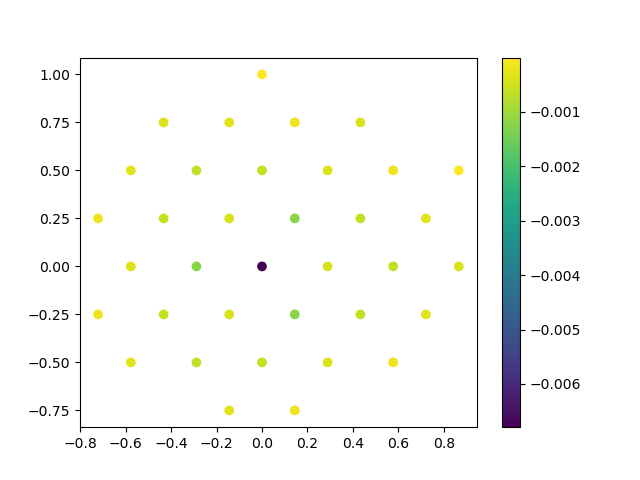
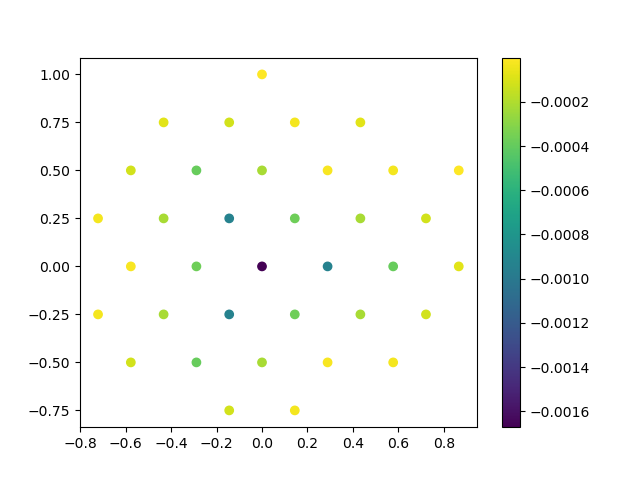
imposing antiunitary particle hole is now working

diff --git a/Mods/Dispersion.py b/Mods/Dispersion.py
@@ -519,19 +519,26 @@ class Dispersion():
             E1,wave1=self.hpl.eigens(self.KX1bz[l],self.KY1bz[l],self.nbands)
             Ene_valley_plus_a=np.append(Ene_valley_plus_a,E1)
             wave1p=self.gauge_fix( wave1)
+            self.check_C2T(wave1p)
             psi_plus_a.append(wave1p)
             
-            E1,wave1=self.hmin.eigens(-self.KX1bz[l],-self.KY1bz[l],self.nbands)
+            
+            # E1,wave1=self.hmin.eigens(-self.KX1bz[l],-self.KY1bz[l],self.nbands)
+            # Ene_valley_min_a=np.append(Ene_valley_min_a,E1)
+            # wave1m=self.gauge_fix( wave1)
+            # psi_min_a.append(wave1m)
+            
+            #with the convention that this is the eigenvalue and eigenvector at -k
+            
             Ene_valley_min_a=np.append(Ene_valley_min_a,E1)
-            wave1m=self.gauge_fix( wave1)
+            wave1m=self.impose_C2(wave1p)
+            self.check_C2T(wave1m)
             psi_min_a.append(wave1m)
             
-            # self.check_Cstar(wave1p, self.impose_Cstar(wave1p,l, self.Npoi1bz))
-            swm1=self.impose_Cstar(wave1p,l, self.Npoi1bz)
-            print(la.det(np.abs(np.conj(swm1.T)@wave1m)))
+            self.check_T(wave1p,wave1m)
+            self.check_C2(wave1p,wave1m)
+
             
-        #TODO: construct minus wavefunctions from plus wavef 
-        #test gaugefixing for this procedure
         #test symmetry for the form factors
         #start implementing the projector- understand the role of non-normal ordered
     
@@ -544,8 +551,7 @@ class Dispersion():
         psi_min=np.array(psi_min_a)
         Ene_valley_min= np.reshape(Ene_valley_min_a,[self.Npoi1bz,self.nbands])
 
-        
-        
+
 
         return [psi_plus,Ene_valley_plus,psi_min,Ene_valley_min]
     
@@ -681,37 +687,111 @@ class Dispersion():
         
         return wave1
     
-    def impose_Cstar(self, wave1,k, Npoi):
-        #antiunitary particle hole connecting different valleys
-        II=np.eye(self.Dim)
-        
-        pauli0=np.array([[1,0],[0,1]])
-        paulix=np.array([[0,1],[1,0]])
-        pauliy=np.array([[0,-1j],[1j,0]])
+    def check_C2T(self,wave1):
+
         pauliz=np.array([[1,0],[0,-1]])
         
-        op=np.kron(pauliy,np.kron(II, paulix))
-        wavem=op@wave1[ : , ::-1]
-        # if k< np.ceil(Npoi/2):
-        #     wavem=op@wave1[ : , ::-1]
-        
-        return wavem
-    
-    
-    def check_Cstar(self, wave1, wave2):
-        II=np.eye(self.Dim)
-        
-        pauli0=np.array([[1,0],[0,1]])
-        paulix=np.array([[0,1],[1,0]])
-        pauliy=np.array([[0,-1j],[1j,0]])
+
+        Sewing=np.conj(wave1.T)@self.hpl.c2zT_psi(wave1)
         pauliz=np.array([[1,0],[0,-1]])
+        if np.abs(np.mean(Sewing-pauliz))>1e-6:
+            print("c2T failed")
+            print(Sewing)
         
-        op=np.kron(pauliy,np.kron(II, paulix))
-        
-        Sewing=np.conj(wave1.T)@(op@wave2)
-        print(np.abs(Sewing))
         return None
     
+    def impose_all_Cstar(self, psi_plus):
+        
+        (Nkpoints, DimV, Nbands)=np.shape(psi_plus)
+        II=np.eye(self.Dim)
+        
+        pauli0=np.array([[1,0],[0,1]])
+        paulix=np.array([[0,1],[1,0]])
+        pauliy=np.array([[0,-1j],[1j,0]])
+        pauliz=np.array([[1,0],[0,-1]])
+        op=np.kron(pauliy,np.kron(II, paulix))
+        Wm=np.zeros(np.shape(psi_plus))+0*1j
+        Wp=np.array(psi_plus)
+        
+        TopRange=int(np.ceil(Nkpoints/2))
+        kpoints=int(Nkpoints)
+        for k in range(TopRange):
+            Wm[k,:,:]=op@(psi_plus[k,:,::-1])
+            Wm[kpoints-1-k,:,:]=(psi_plus[k,:,:])@pauliz
+        
+        for k in range(TopRange):
+            Wp[kpoints-1-k,:,:]=op@(Wm[kpoints-1-k,:,::-1])
+
+        for k in range(kpoints):
+            self.check_Cstar( Wp[k,:,:],Wm[k,:,:])
+            self.check_C2T(Wp[k,:,:])
+            self.check_C2T(Wm[k,:,:])
+
+            
+            self.check_T(Wp[k,:,:],Wm[k,:,:])
+            # self.check_C2(Wp[k,:,:],Wm[k,:,:]) # for some reason, this rep of C2 is incompatible with the rep of Cstar
+        return None
+        
+    
+    def check_Cstar(self, wave1p, wave1m):
+        II=np.eye(self.Dim)
+        
+        pauli0=np.array([[1,0],[0,1]])
+        paulix=np.array([[0,1],[1,0]])
+        pauliy=np.array([[0,-1j],[1j,0]])
+        pauliz=np.array([[1,0],[0,-1]])
+        
+        op=np.kron(pauliy,np.kron(II, paulix))
+        
+        Sewing=np.conj(wave1m.T)@(op@wave1p)
+        if np.abs(np.mean(Sewing-paulix))>1e-6:
+            print("C star failed")
+            print(Sewing)
+        return None
+    
+    def impose_T(self,wave1):
+        ihalf=int(self.nbands/2)
+        wave2=np.array(np.conj(wave1))
+        wave2[:,ihalf:]=-np.array(np.conj(wave1))[:,1]
+        return wave2
+    
+    def check_T(self,wave1p,wave1m):
+        Sewing=np.conj(wave1m.T)@np.conj(wave1p)
+        pauliz=np.array([[1,0],[0,-1]])
+        if np.abs(np.mean(Sewing-pauliz))>1e-6:
+            print("T failed")
+            print(Sewing)
+        return None
+    
+    def impose_C2(self,wave1):
+        
+        II=np.eye(self.Dim)
+        
+        pauli0=np.array([[1,0],[0,1]])
+        paulix=np.array([[0,1],[1,0]])
+        pauliy=np.array([[0,-1j],[1j,0]])
+        pauliz=np.array([[1,0],[0,-1]])
+        
+        op=np.kron(pauli0,np.kron(II, paulix))
+        
+        wave2=np.array(op@wave1)
+        return wave2
+    
+    def check_C2(self,wave1p,wave1m):
+        II=np.eye(self.Dim)
+        
+        pauli0=np.array([[1,0],[0,1]])
+        paulix=np.array([[0,1],[1,0]])
+        pauliy=np.array([[0,-1j],[1j,0]])
+        pauliz=np.array([[1,0],[0,-1]])
+        
+        op=np.kron(pauli0,np.kron(II, paulix))
+        
+        Sewing=np.conj(wave1m.T)@(op@wave1p)
+        if np.abs(np.mean(Sewing-pauli0))>1e-6:
+            print("C2 failed")
+            print(Sewing)
+        return None
     ###########DOS FOR DEBUGGING
 
     
@@ -1497,13 +1577,7 @@ class HartreeBandStruc:
         self.Ene_valley_min_dec=self.hmin.ExtendE(self.Ene_valley_min_1bz_dec , self.umkl)
 
 
-        
-
-        #TODO
-        #
-        
-
-        #refStates
+    
 
         print("im here clearly", np.shape(self.psi_plus))
         
@@ -1583,22 +1657,22 @@ def main() -> int:
     
 
     #JY params 
-    # hbvf = (3/(2*np.sqrt(3)))*2.7; # eV
-    # hvkd=hbvf*q
-    # kappa=0.75
-    # up = 0.105; # eV
-    # u = kappa*up; # eV
-    # alpha=up/hvkd
-    # alph=alpha
-
-    #Andrei params 
-    hbvf = 19.81/(8*np.pi/3); # eV
+    hbvf = (3/(2*np.sqrt(3)))*2.7; # eV
     hvkd=hbvf*q
-    kappa=1
-    up = 0.110; # eV
+    kappa=0.75
+    up = 0.105; # eV
     u = kappa*up; # eV
     alpha=up/hvkd
     alph=alpha
+
+    #Andrei params 
+    # hbvf = 19.81/(8*np.pi/3); # eV
+    # hvkd=hbvf*q
+    # kappa=1
+    # up = 0.110; # eV
+    # u = kappa*up; # eV
+    # alpha=up/hvkd
+    # alph=alpha
     
     print("hbvf is ..",hbvf )
     print("q is...", q)
@@ -1665,7 +1739,7 @@ def main() -> int:
     plt.colorbar()
     plt.savefig('disp_m2.png')
     plt.close()
-
+    
     
     
     # HB=HartreeBandStruc( lq, nbands, hpl, hmin, 0, umkl)

diff --git a/Mods/Hamiltonian.py b/Mods/Hamiltonian.py
@@ -1931,8 +1931,8 @@ def main() -> int:
     ee2=(hbarc/a_graphene)/alpha
     kappa_di=3.03
     
-    hpl=Ham_BM_p(hvkd, alph, 1, lq, kappa, PH,0)
-    hmin=Ham_BM_m(hvkd, alph, -1, lq, kappa, PH,0)
+    hpl=Ham_BM_p(hvkd, alph, 1, lq, kappa, PH,1)
+    hmin=Ham_BM_m(hvkd, alph, -1, lq, kappa, PH,1)
 
     #CALCULATING FILLING AND CHEMICAL POTENTIAL ARRAYS
     # Ndos=100
